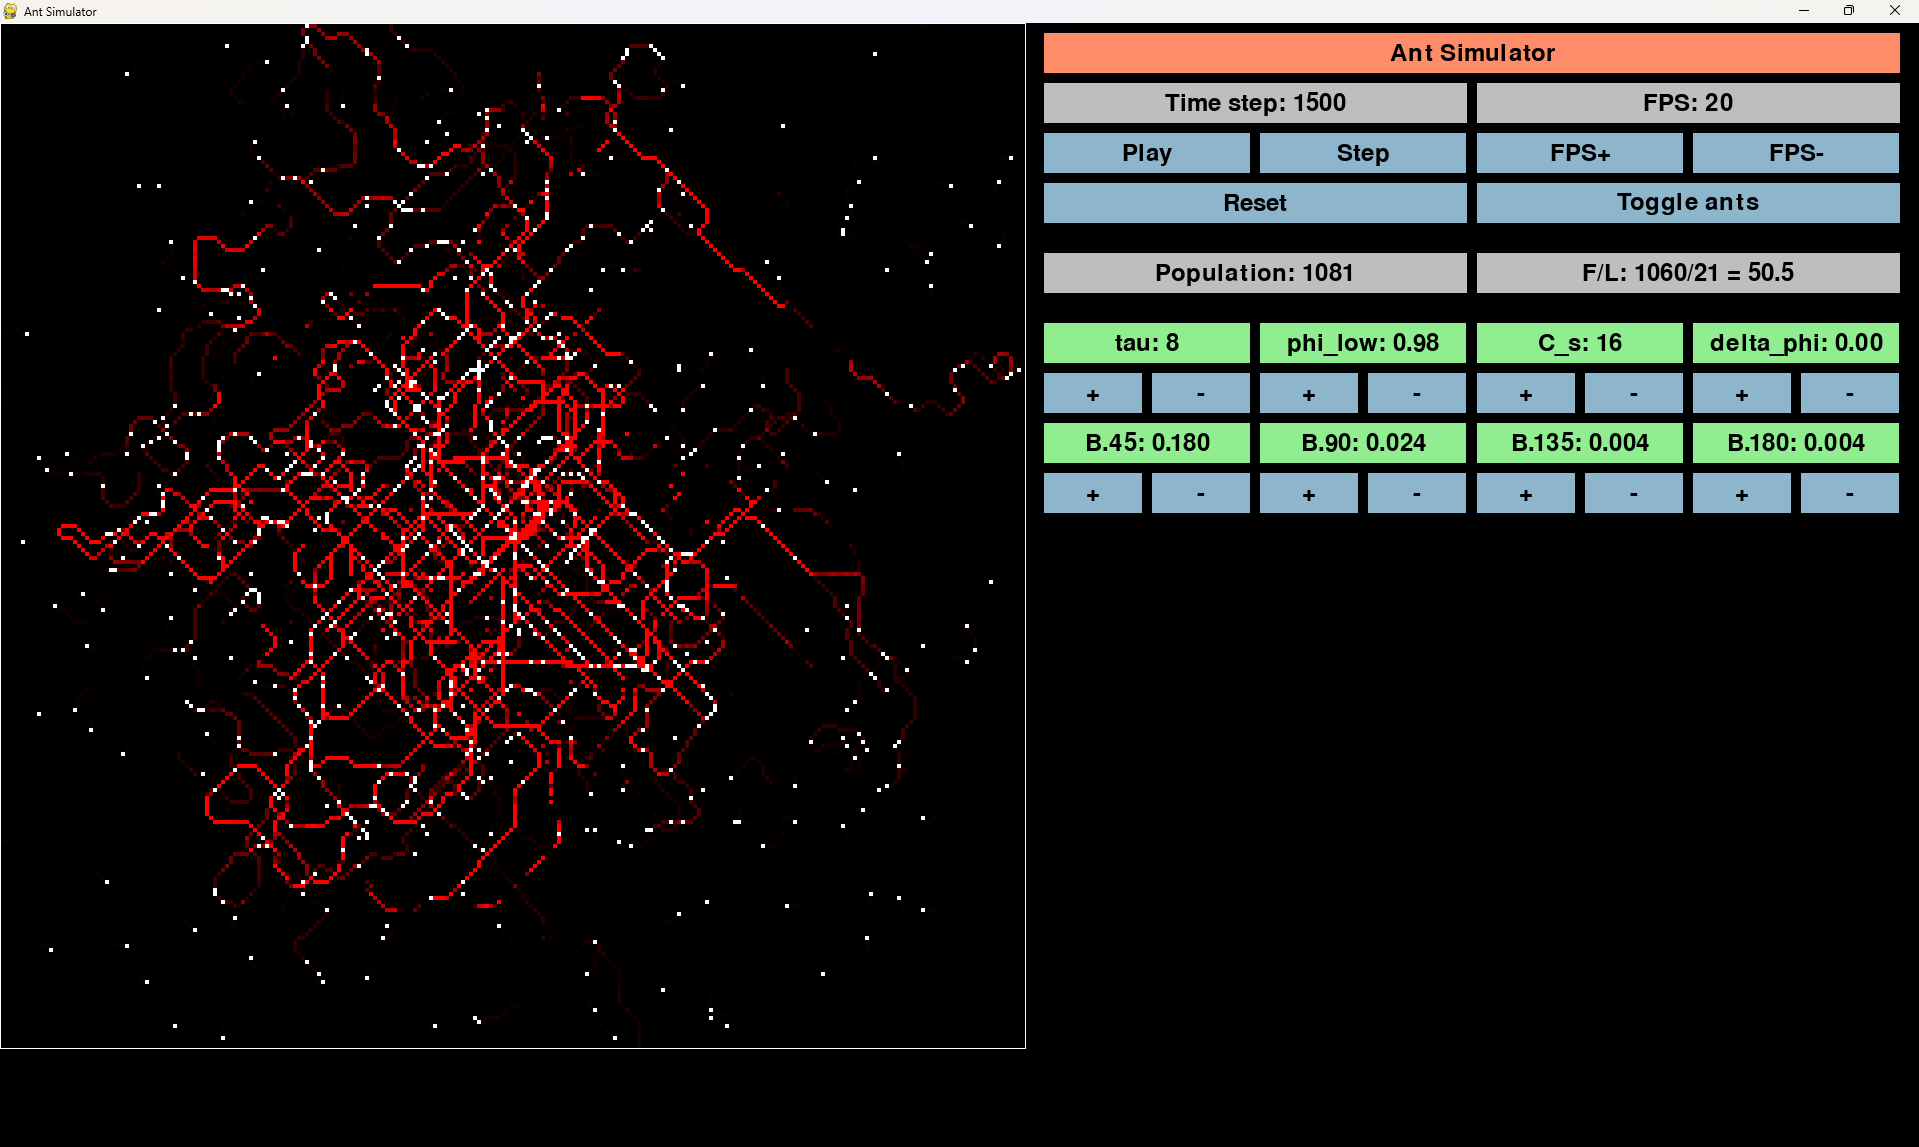
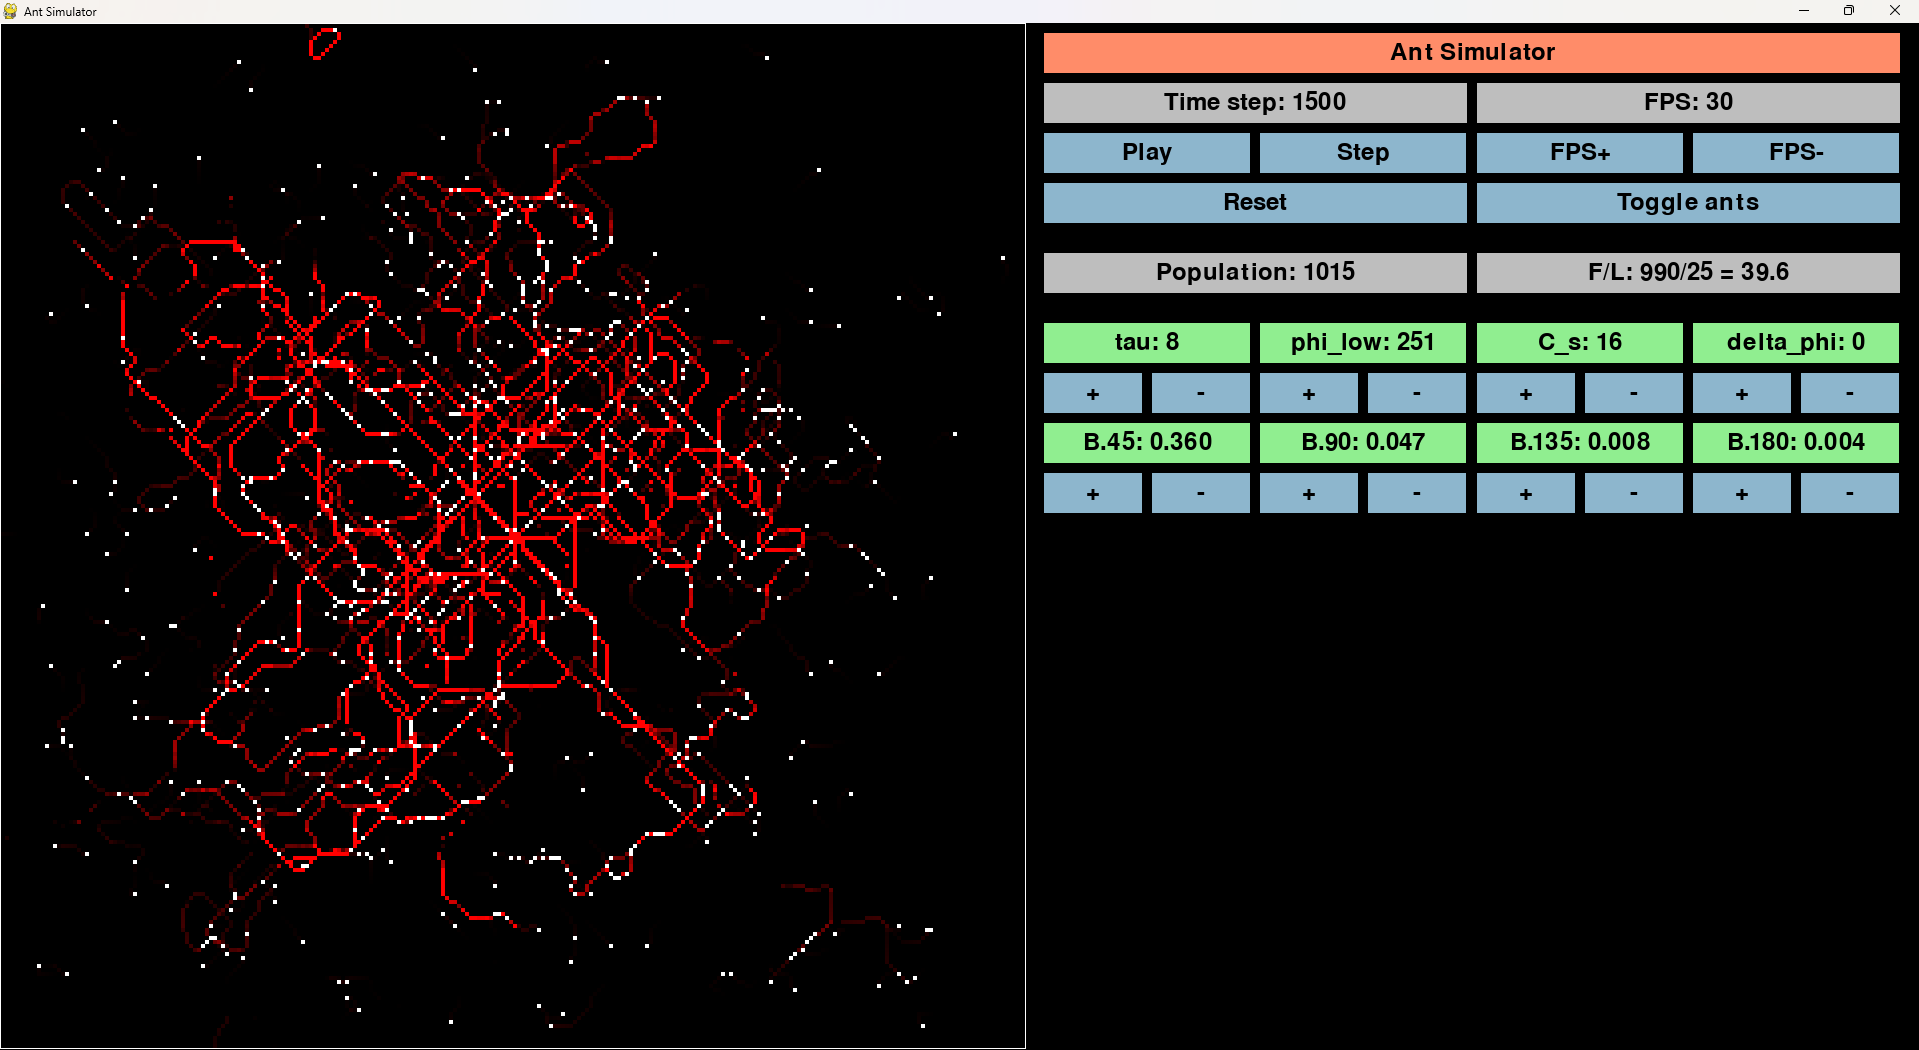
adjust param displays to match paper

diff --git a/src/interface_pygame.py b/src/interface_pygame.py
@@ -161,24 +161,25 @@ class WorldControls:
         self.labels.append(self.fl_label)
 
         # Parameter values and controls. tau, phi_low, C_s, delta_phi, and turning kernel.
-        # There's an argument for making this less repetitve but :shrug:
+        # the /256 is to make the param vals match with those in the paper
         param_y = 300
         self.tau_pc = ParamController(self.screen, self.world, xs_8ths[0], param_y, 'tau', lambda val: setattr(self.world.params, 'tau', val), 1, self.world.params.tau)
         self.param_controllers.append(self.tau_pc)
-        self.phi_low_pc = ParamController(self.screen, self.world, xs_8ths[2], param_y, 'phi_low', lambda val: setattr(self.world.params, 'phi_low', val), 0.01, self.world.params.phi_low)
+        self.phi_low_pc = ParamController(self.screen, self.world, xs_8ths[2], param_y, 'phi_low', lambda val: setattr(self.world.params, 'phi_low', val/256), 1, self.world.params.phi_low*256)
         self.param_controllers.append(self.phi_low_pc)
         self.cs_pc = ParamController(self.screen, self.world, xs_8ths[4], param_y, 'C_s', lambda val: setattr(self.world.params, 'C_s', val), 1, self.world.params.C_s)
         self.param_controllers.append(self.cs_pc)
-        self.dphi_pc = ParamController(self.screen, self.world, xs_8ths[6], param_y, 'delta_phi', lambda val: setattr(self.world.params, 'delta_phi', val), 0.01, self.world.params.delta_phi)
+        self.dphi_pc = ParamController(self.screen, self.world, xs_8ths[6], param_y, 'delta_phi', lambda val: setattr(self.world.params, 'delta_phi', val/256), 1, self.world.params.delta_phi*256)
         self.param_controllers.append(self.dphi_pc)
 
         # Turning kernel controls
+        # all but 180 are *2 b/c the non-180 probs are split across left and right turns
         tk_param_y = param_y + 100
-        self.tk_45_pc = ParamController(self.screen, self.world, xs_8ths[0], tk_param_y, 'B.45', lambda val: self.set_B(45, val), 0.01, self.world.params.B[45], figs=3)
+        self.tk_45_pc = ParamController(self.screen, self.world, xs_8ths[0], tk_param_y, 'B.45', lambda val: self.set_B(45, val/2), 0.01, self.world.params.B[45]*2, figs=3)
         self.param_controllers.append(self.tk_45_pc)
-        self.tk_90_pc = ParamController(self.screen, self.world, xs_8ths[2], tk_param_y, 'B.90', lambda val: self.set_B(90, val), 0.001, self.world.params.B[90], figs=3)
+        self.tk_90_pc = ParamController(self.screen, self.world, xs_8ths[2], tk_param_y, 'B.90', lambda val: self.set_B(90, val/2), 0.001, self.world.params.B[90]*2, figs=3)
         self.param_controllers.append(self.tk_90_pc)
-        self.tk_135_pc = ParamController(self.screen, self.world, xs_8ths[4], tk_param_y, 'B.135', lambda val: self.set_B(135, val), 0.001, self.world.params.B[135], figs=3)
+        self.tk_135_pc = ParamController(self.screen, self.world, xs_8ths[4], tk_param_y, 'B.135', lambda val: self.set_B(135, val/2), 0.001, self.world.params.B[135]*2, figs=3)
         self.param_controllers.append(self.tk_135_pc)
         self.tk_180_pc = ParamController(self.screen, self.world, xs_8ths[6], tk_param_y, 'B.180', lambda val: self.set_B(180, val), 0.001, self.world.params.B[180], figs=3)
         self.param_controllers.append(self.tk_180_pc)
